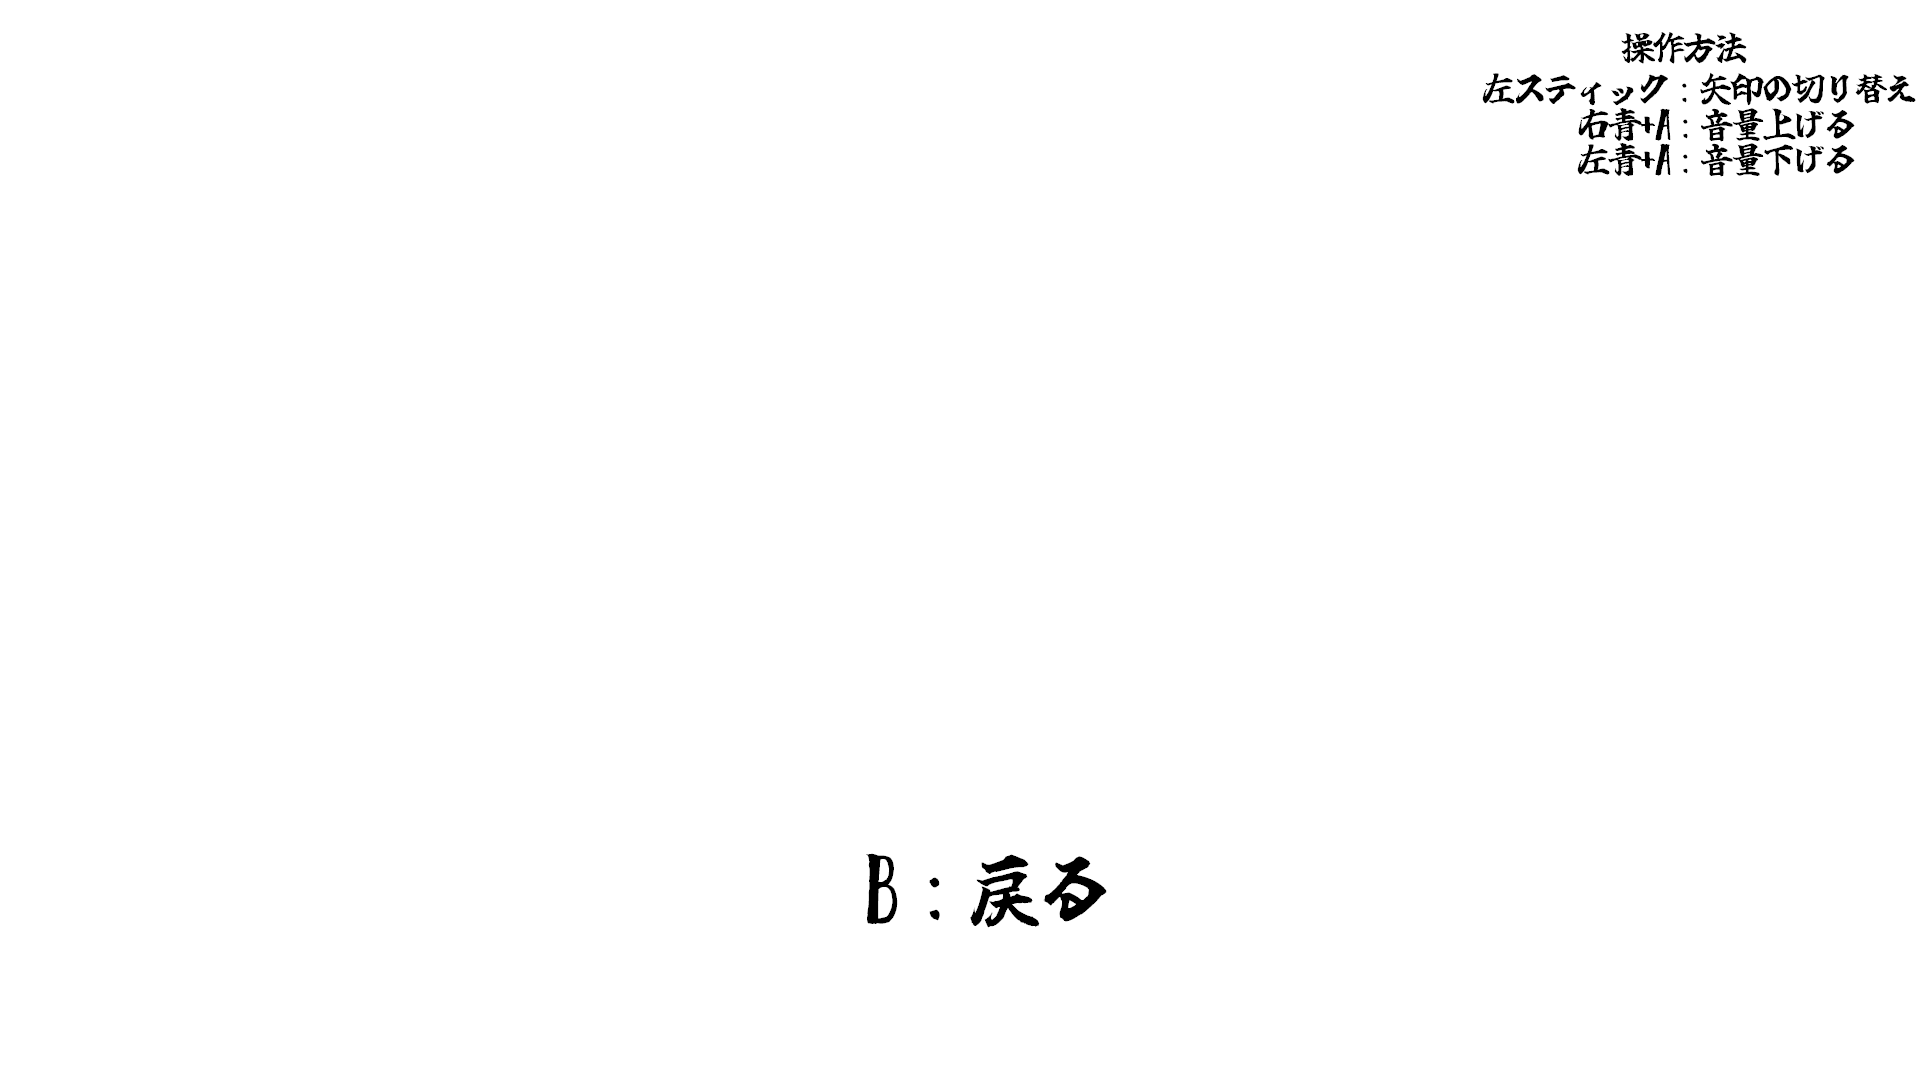
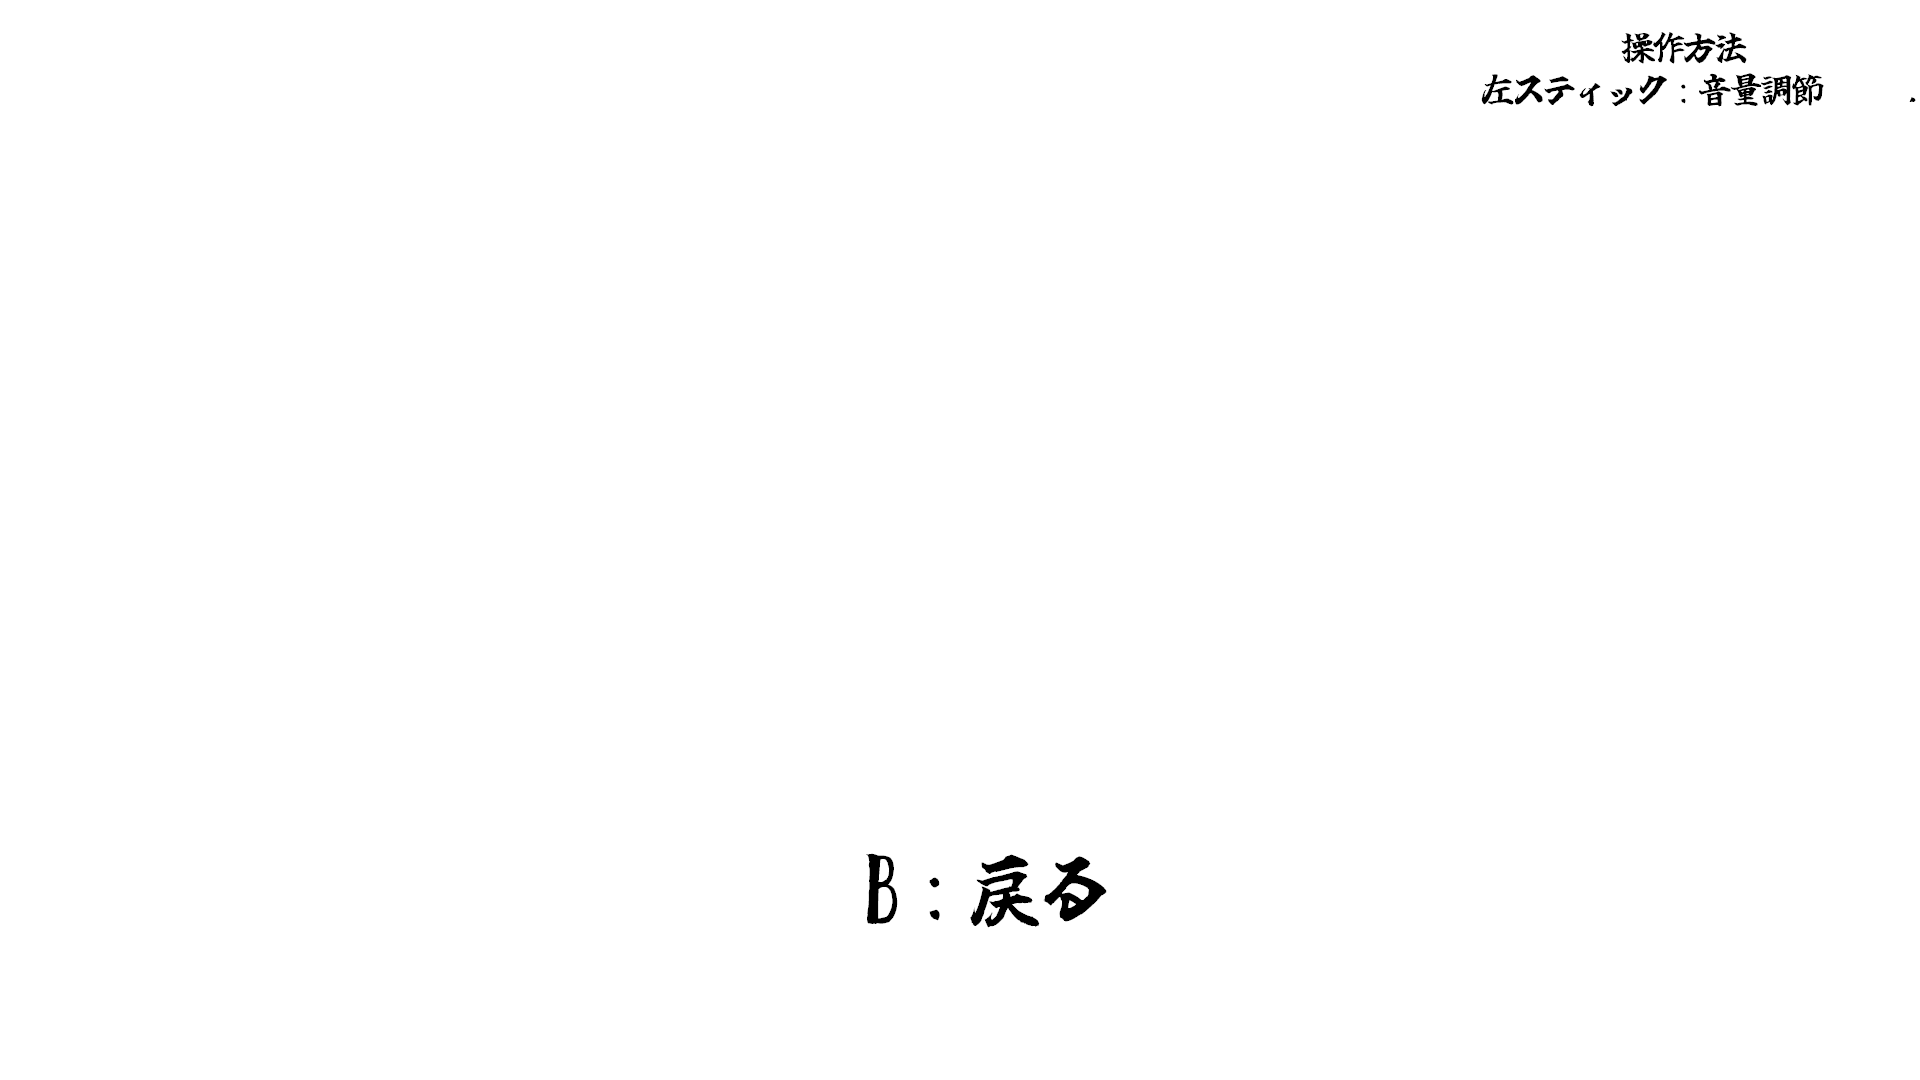
音量調節直した

Changed region(s): [[0.7812, 0.0611, 1.0, 0.1833]]

diff --git a/CompanySlave/Scene/Title.cpp b/CompanySlave/Scene/Title.cpp
@@ -46,8 +46,6 @@ void Title::Initialize()
 
 	VolumeUI[0] = Sprite::Instance()->SpriteCreate(L"Resources/VolumeUI.png");
 	VolumeUI[1] = Sprite::Instance()->SpriteCreate(L"Resources/Volume.png");
-	VolumeUI[2] = Sprite::Instance()->SpriteCreate(L"Resources/VolumeArrow1.png");
-	VolumeUI[3] = Sprite::Instance()->SpriteCreate(L"Resources/VolumeArrow2.png");
 
 
 	swordObject = Object::Instance()->CreateOBJ("sword");
@@ -97,6 +95,8 @@ void Title::Init()
 		pos[i].x = rand() % 1300;
 		s[i] = rand() % 500 - 400;
 	}
+	ControllerLFlag = false;
+	ControllerRFlag = false;
 	audio->SoundBGMPlayLoopWave(sound1,0);
 }
 
@@ -201,17 +201,7 @@ void Title::Update()
 		{
 			volumeFlag = 0;
 		}
-		if (Input::Instance()->ConLeftInput())
-		{
-			if (direction == Right)
-			{
-				volumeArrowFlag = true;
-			}
-			else if (direction == Left)
-			{
-				volumeArrowFlag = false;
-			}
-		}
+
 		if (volumeFlag == 0)
 		{
 			position = { 5.0f,0.0f,0.0f };
@@ -241,21 +231,37 @@ void Title::Update()
 			{
 				volumeFade += 0.1;
 			}
-			if (volumeFade >= 1 && Input::Instance()->ControllerDown(ButtonA))
+			if (direction == Right || direction == UpRight || direction == DownRight)
 			{
-				if (volumeArrowFlag == true && volume < 1)
+				ControllerRFlag = true;
+			}
+			else { ControllerRFlag = false; }
+
+			if (direction == Left || direction == UpLeft || direction == DownLeft)
+			{
+				ControllerLFlag = true;
+			}
+			else { ControllerLFlag = false; }
+
+			if (Input::Instance()->ControllerDown(LButtonRight) && ControllerRFlag == true)
+			{
+				if (volume < 1)
 				{
 					volume += 0.1;
 					volume2 += 0.1;
 					volumeB += 50;
 				}
-				if (volumeArrowFlag == false && volume >= 0)
+			}
+			else if (Input::Instance()->ControllerDown(LButtonLeft) && ControllerLFlag == true)
+			{
+				if (volume > 0)
 				{
 					volume -= 0.1;
 					volume2 -= 0.1;
 					volumeB -= 50;
 				}
 			}
+
 		}
 	}
 
@@ -335,12 +341,7 @@ void Title::Draw()
 		else if (volumeFlag == 1) {
 			Sprite::Instance()->Draw(VolumeUI[1], Vec2(420, 350), volumeB, 40, Vec2(0.0f, 0.0f), Vec4(1, 1, 1, volumeFade));
 			Sprite::Instance()->Draw(VolumeUI[0], Vec2(420, 350), 500, 40, Vec2(0.0f, 0.0f), Vec4(1, 1, 1, volumeFade));
-			if (volumeArrowFlag == false) {
-				Sprite::Instance()->Draw(VolumeUI[2], Vec2(370, 350), 600, 40, Vec2(0.0f, 0.0f), Vec4(1, 1, 1, volumeFade));
-			}
-			if (volumeArrowFlag == true) {
-				Sprite::Instance()->Draw(VolumeUI[3], Vec2(370, 350), 600, 40, Vec2(0.0f, 0.0f), Vec4(1, 1, 1, volumeFade));
-			}
+		
 			Sprite::Instance()->Draw(Button[1], Vec2(0, 0), window_width, window_height, Vec2(0.0f, 0.0f), Vec4(1, 1, 1, 1));
 
 		}
